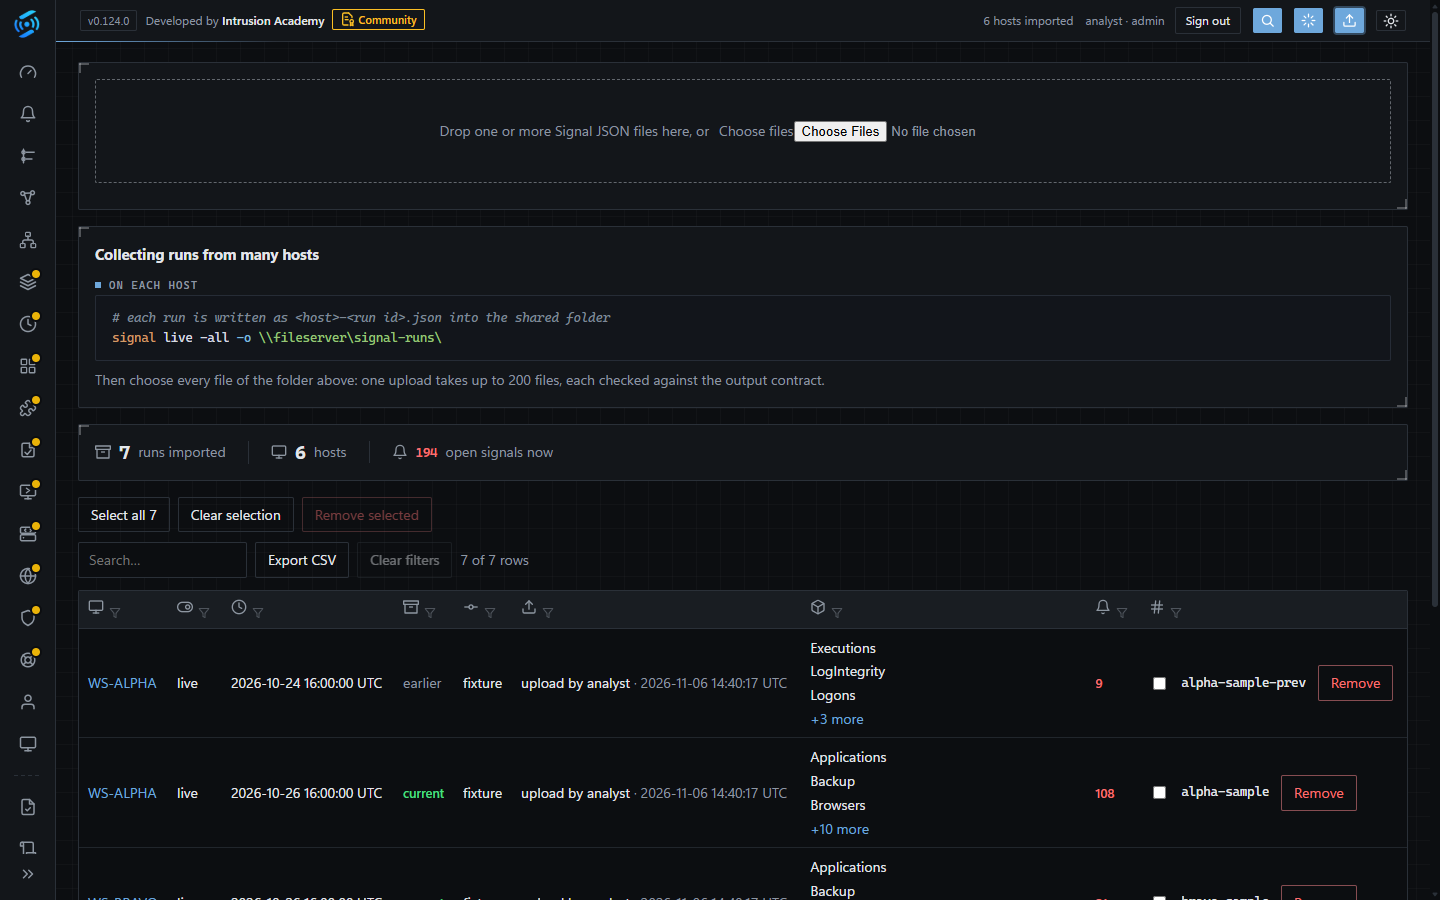
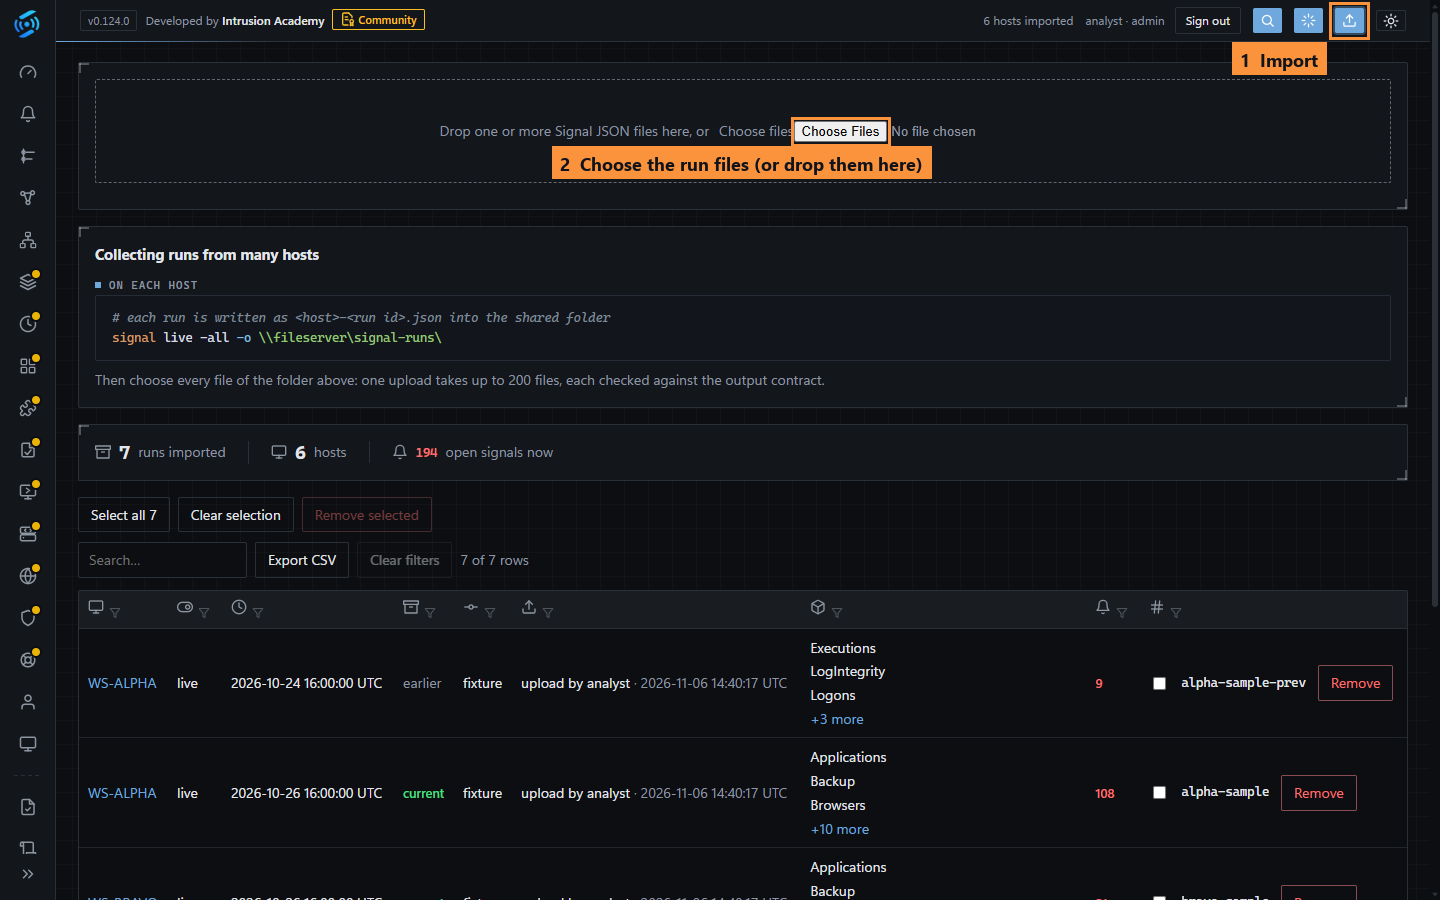
README: show where the Import button is

Changed region(s): [[0.375, 0.1244, 0.6562, 0.2178], [0.8438, 0.0, 0.9688, 0.0933]]

diff --git a/README.md b/README.md
@@ -99,7 +99,7 @@ example a share:
 signal live -all -o \\fileserver\signal-runs\
 ```
 
-**Step 4. Import the runs.** Sign in, open **Import** and select the run files.
+**Step 4. Import the runs.** Sign in and click the **Import** button (the upload arrow at the top right). Then click **Choose Files** and select the run files, or drag them onto the dashed box.
 
 - Up to 200 files per upload, up to 50 MB each.
 - Each file is validated before it is stored. A file from a newer Signal is refused with the reason.
